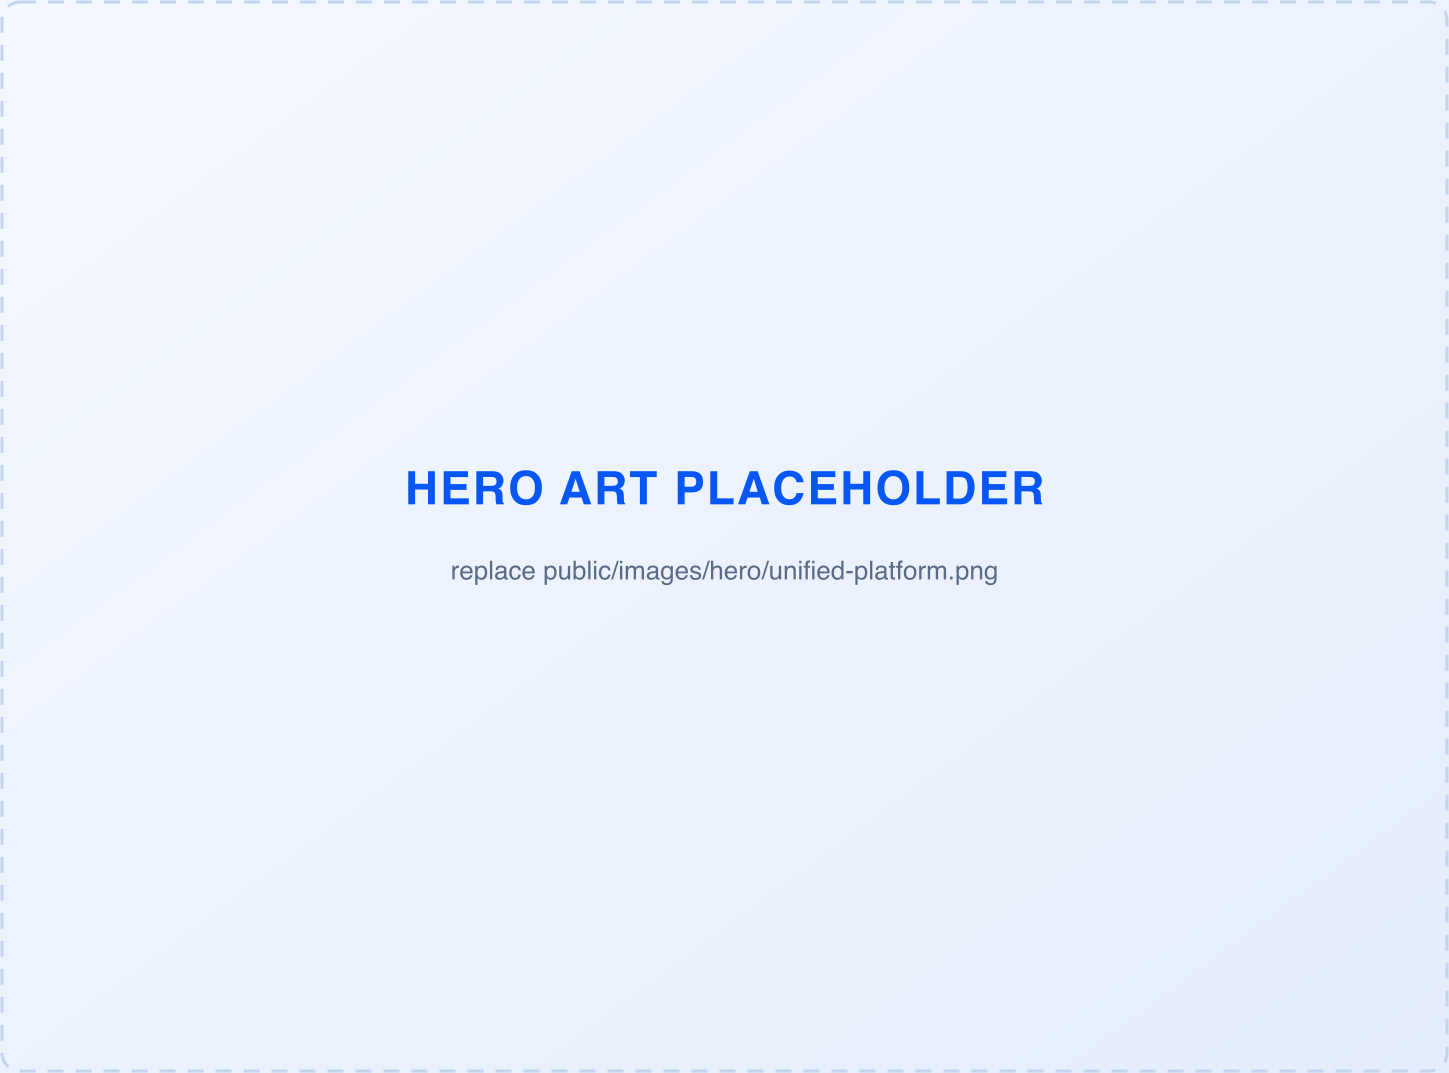
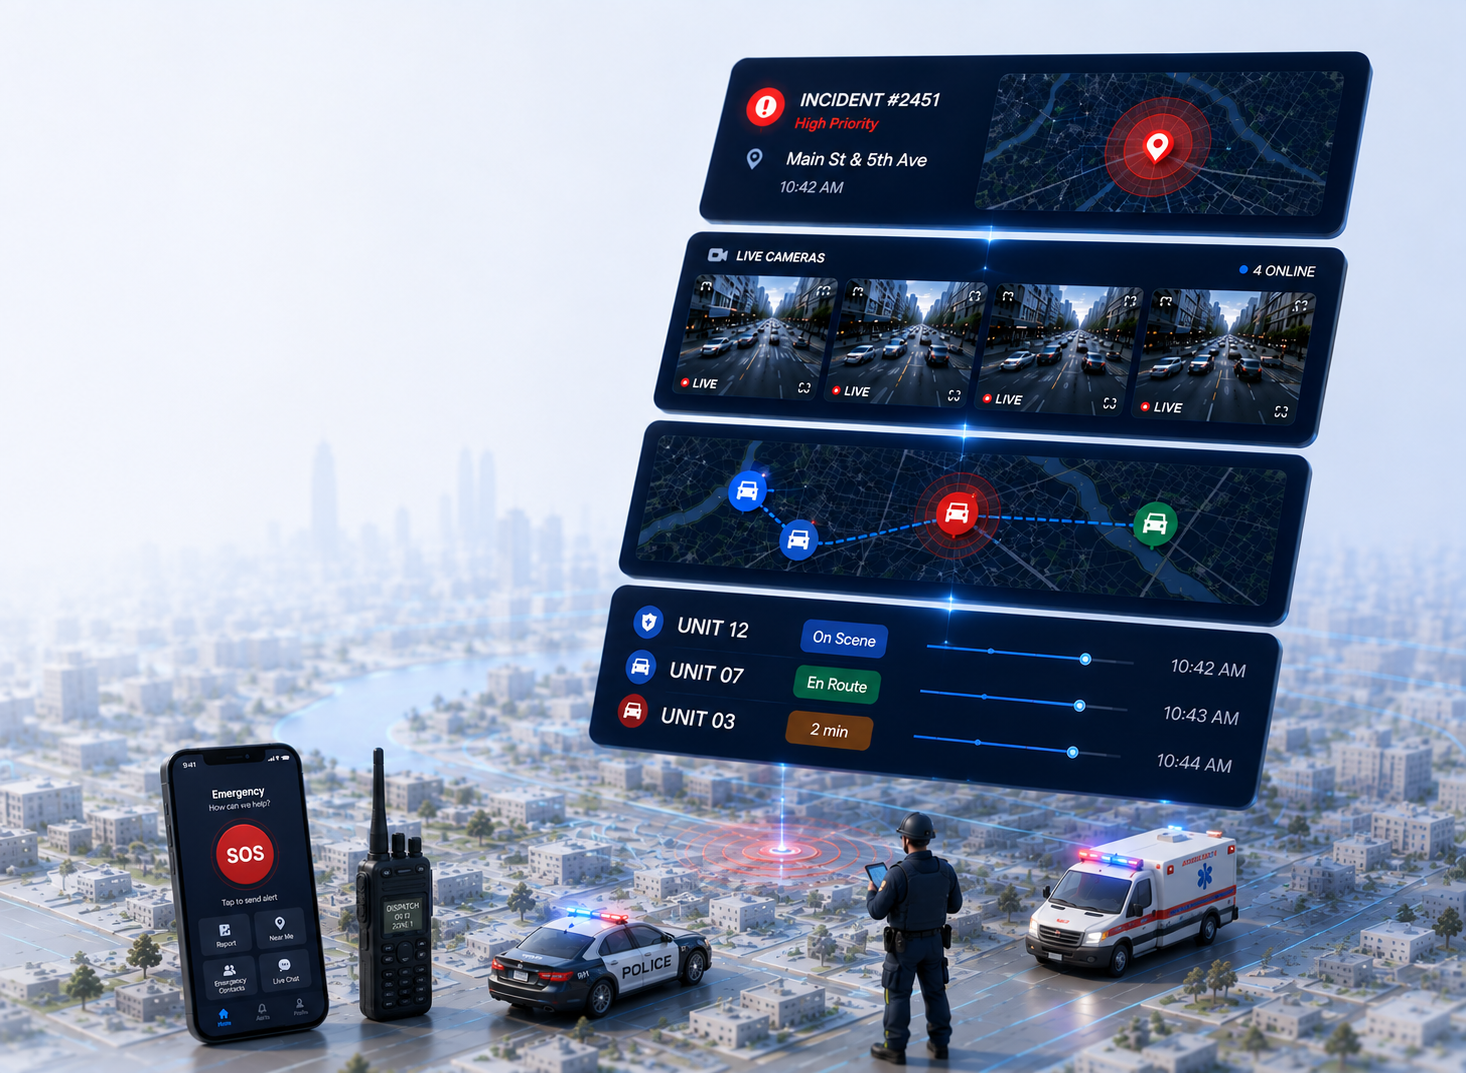
Fix: real hero art; header bar goes full-bleed (v2.339)
- .hll-nav was `width: min(100%, 1536px); margin: 0 auto`, capping the white
  background as well as its contents — above 1536px the bar stopped and the
  dark body background showed as black bands down each side. Measured at
  1920px: nav ran 192->1728. Bar is now full width; only its contents stay
  on the 1536px column, so nothing under 1536px changes.
- Replaced the hero placeholder with the real art.
- Masked the art's left/right 5% and bottom 10%: it is rendered on a
  pale-blue ground (#cadbf5 right edge, #9d9ca1 bottom) that did not match
  the #f7faff page, so it read as a pasted rectangle.

Verified EN and ES at 1920px and 375px: nav full-bleed, art loads, zero
horizontal overflow.

diff --git a/changelog.html b/changelog.html
@@ -356,6 +356,21 @@
 
     <div class="timeline">
 
+      <!-- v2.339 -->
+      <div class="tl-entry fixed" id="v2.339">
+        <div class="tl-meta"><span class="tl-ver">v2.339</span><span class="tl-date">2026-08-11</span></div>
+        <div class="tl-title">Real hero art; header bar goes full-bleed</div>
+        <div class="tl-body">
+          <ul class="version-changes">
+            <li><strong>The header no longer has black bands down each side on wide screens.</strong> <code>.hll-nav</code> was <code>width: min(100%, 1536px); margin: 0 auto</code>, which capped the white background as well as the contents — above 1536px the bar stopped and the dark body background showed through. Measured at 1920px before the fix: the nav ran 192→1728. The bar is now full width with only its <em>contents</em> held to the 1536px column, so nothing below 1536px changes</li>
+            <li><strong>The hero placeholder is replaced with the real art</strong> — the console stack over the city, with the SOS phone, radio, patrol car, responder and ambulance</li>
+            <li><strong>Softened the art's edges.</strong> The file is rendered on its own pale-blue ground that does not match the page gradient: its right edge measured <code>#cadbf5</code> and its bottom <code>#9d9ca1</code> against a <code>#f7faff</code> page, so it read as a pasted rectangle. A mask fades the left and right 5% and the bottom 10%, placed off where the content sits so no card or vehicle is clipped</li>
+            <li>Turbopack dev caches optimized images at <code>.next/dev/cache/images</code>, not <code>.next/cache/images</code> — after swapping the file the optimizer kept serving the placeholder's derivative until that directory was purged. Production is unaffected; each deployment builds its own cache</li>
+            <li><strong>Still open:</strong> the page's containers do not share a left edge. At 1920px the nav logo sits at 244px, the hero copy at 344px and the before/after section at 404px, because the three use 1536px, 1360px and 1240px containers. That needs one decision across the page rather than a local fix</li>
+          </ul>
+        </div>
+      </div>
+
       <!-- v2.338 -->
       <div class="tl-entry changed" id="v2.338">
         <div class="tl-meta"><span class="tl-ver">v2.338</span><span class="tl-date">2026-08-11</span></div>

diff --git a/src/components/hero-lab/hero-split.css b/src/components/hero-lab/hero-split.css
@@ -59,6 +59,26 @@
   height: auto;
 }
 
+/* The art is rendered on its own pale-blue ground, which does not match the
+   page gradient behind it — measured, the image's right edge is #cadbf5 and its
+   bottom edge #9d9ca1 against a #f7faff page, so the file reads as a pasted
+   rectangle with three visible seams. Fading the edges dissolves it instead.
+
+   The insets are picked off where the content actually sits: the console cards
+   stop well short of the left and right edges, so 5% there costs nothing, and
+   the bottom fade starts at 90% where there is only road below the vehicles.
+   The top is left hard because nothing there meets an edge. */
+.hsplit-art img {
+  -webkit-mask-image:
+    linear-gradient(to bottom, #000 0 90%, transparent 100%),
+    linear-gradient(to right, transparent 0, #000 5%, #000 95%, transparent 100%);
+  -webkit-mask-composite: source-in;
+  mask-image:
+    linear-gradient(to bottom, #000 0 90%, transparent 100%),
+    linear-gradient(to right, transparent 0, #000 5%, #000 95%, transparent 100%);
+  mask-composite: intersect;
+}
+
 /* The proof metrics sit under both columns, aligned to the copy rather than
    centred across the full width — centred, they read as belonging to the image. */
 .hll-page--split .hll-stats {

diff --git a/src/components/hero-lab/hero-lab-header.css b/src/components/hero-lab/hero-lab-header.css
@@ -39,10 +39,17 @@ html { scroll-padding-top: calc(var(--hll-nav-h) + 12px); }
   top: 0;
   z-index: 30;
   border-bottom: 1px solid rgba(77, 108, 171, 0.12);
-  width: min(100%, 1536px);
+  /* The bar spans the viewport; only its *contents* are capped at 1536px.
+     It used to be `width: min(100%, 1536px); margin: 0 auto`, which capped the
+     white background too — so above 1536px the bar stopped and the dark body
+     background showed as a black band down each side of the header. Nothing
+     below 1536px changes: the max() resolves to the plain 52px there, and the
+     four responsive overrides further down are all max-width queries that sit
+     under this threshold. */
+  width: 100%;
   height: 96px;
-  margin: 0 auto;
   padding: 24px 52px;
+  padding-inline: max(52px, calc((100% - 1536px) / 2 + 52px));
   display: grid;
   grid-template-columns: 236px 1fr auto;
   align-items: center;

diff --git a/CHANGELOG.md b/CHANGELOG.md
@@ -1,3 +1,17 @@
+## [v2.339] – 2026-08-11 — Real hero art; header bar goes full-bleed
+### Fixed
+- **The header no longer has black bands down each side on wide screens.** `.hll-nav` was `width: min(100%, 1536px); margin: 0 auto`, which capped the white background as well as the contents — so above 1536px the bar simply stopped and the dark body background showed through on both sides. Measured at 1920px before the fix: the nav ran 192→1728 inside a 1920px viewport. The bar is now full width and only its *contents* are held to the 1536px column, so nothing below 1536px changes and the four responsive overrides (all max-width queries under that threshold) are untouched.
+
+### Changed
+- **The hero placeholder is replaced with the real art** — the console stack over the city, with the SOS phone, radio, patrol car, responder and ambulance.
+- **Softened the art's edges.** The file is rendered on its own pale-blue ground that does not match the page gradient: measured, its right edge is `#cadbf5` and its bottom edge `#9d9ca1` against a `#f7faff` page, so it read as a pasted rectangle with three visible seams. A mask now fades the left and right 5% and the bottom 10% — picked off where the content actually sits, so no console card or vehicle is clipped.
+
+### Notes
+- The art was already on disk at `~/Downloads/image15.png`; the previous entry shipped a placeholder because I looked for it in the repo and not there.
+- Turbopack dev caches optimized images at `.next/dev/cache/images`, not `.next/cache/images`. After swapping the file the optimizer kept serving a 750x555 derivative — the placeholder's aspect ratio — until that directory was purged. Worth knowing for any future art swap; production is unaffected, since each deployment builds its own cache.
+- Still open, and not touched here: the page's containers do not share a left edge. At 1920px the nav logo sits at 244px, the hero copy at 344px and the before/after section at 404px, because the three use 1536px, 1360px and 1240px containers. Aligning only the hero would pull it away from the sections below it, so this needs one decision across the page rather than a local fix.
+- Still `/hero-lab-story` only. `/hero-lab` shares the header file and gains the full-bleed fix; nothing else there changes.
+
 ## [v2.338] – 2026-08-11 — Two-column hero; module cards move up behind the claim
 ### Changed
 - **The hero becomes two-column** on `/hero-lab-story`: copy left, one image right, replacing the centred stack. The headline gets its own column instead of competing with full-width art. Opt-in via a `split` prop defaulted off, so `/hero-lab` keeps the centred version and the two stay comparable.
